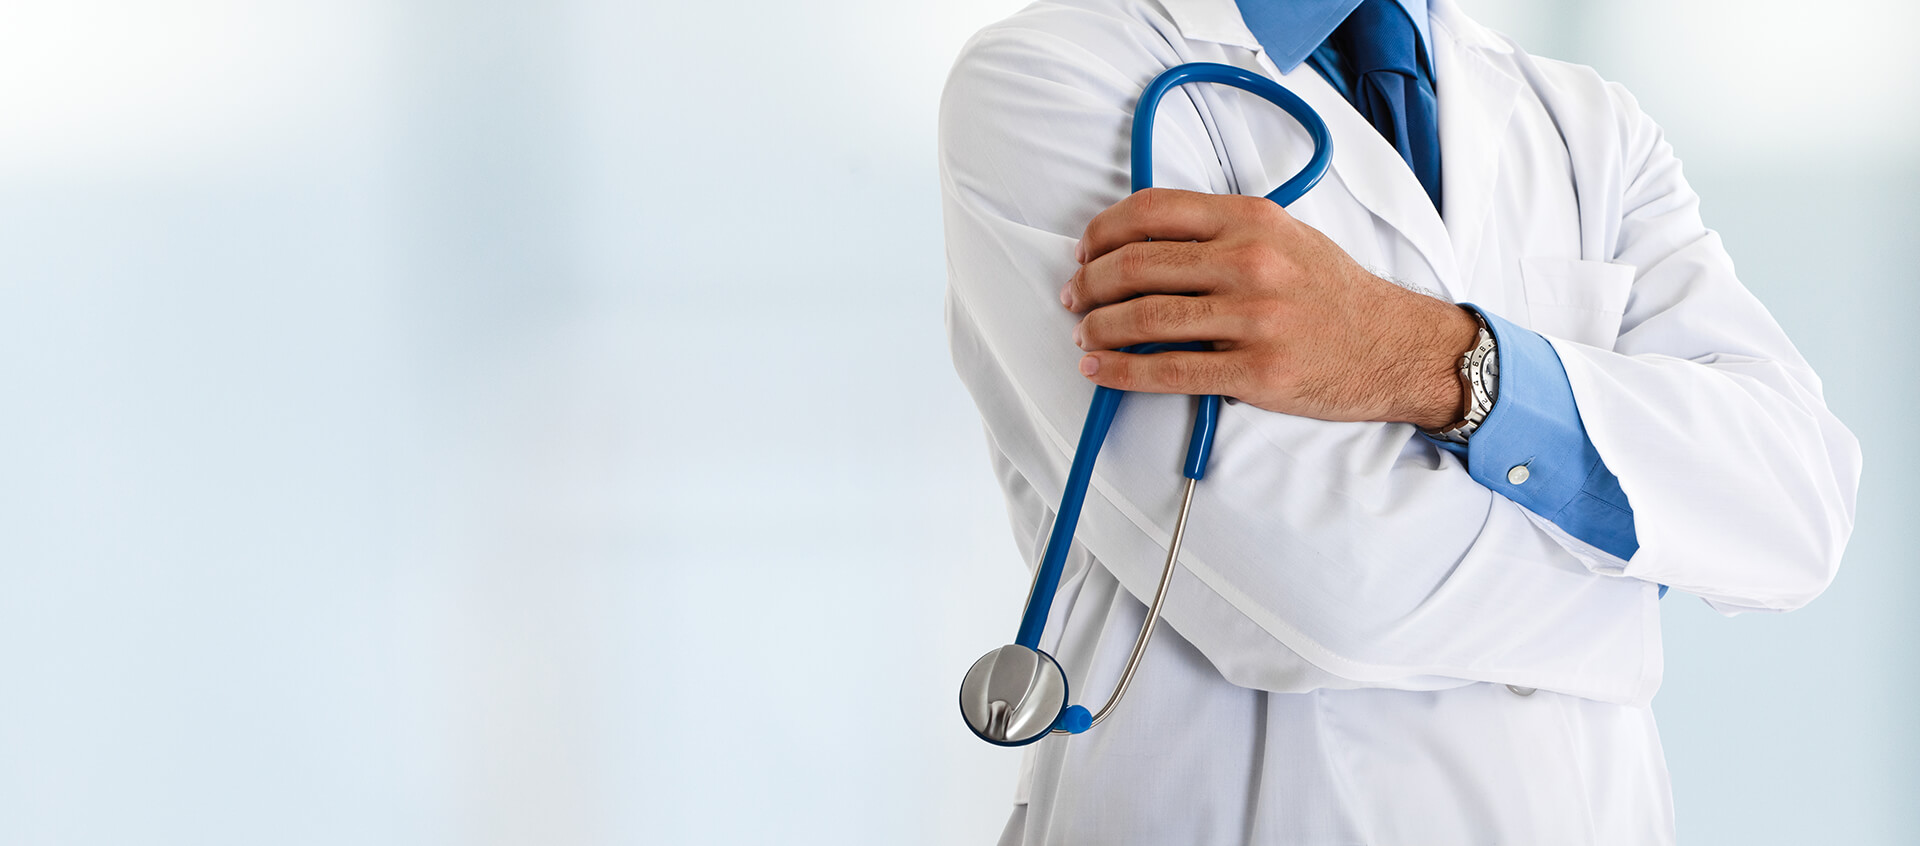
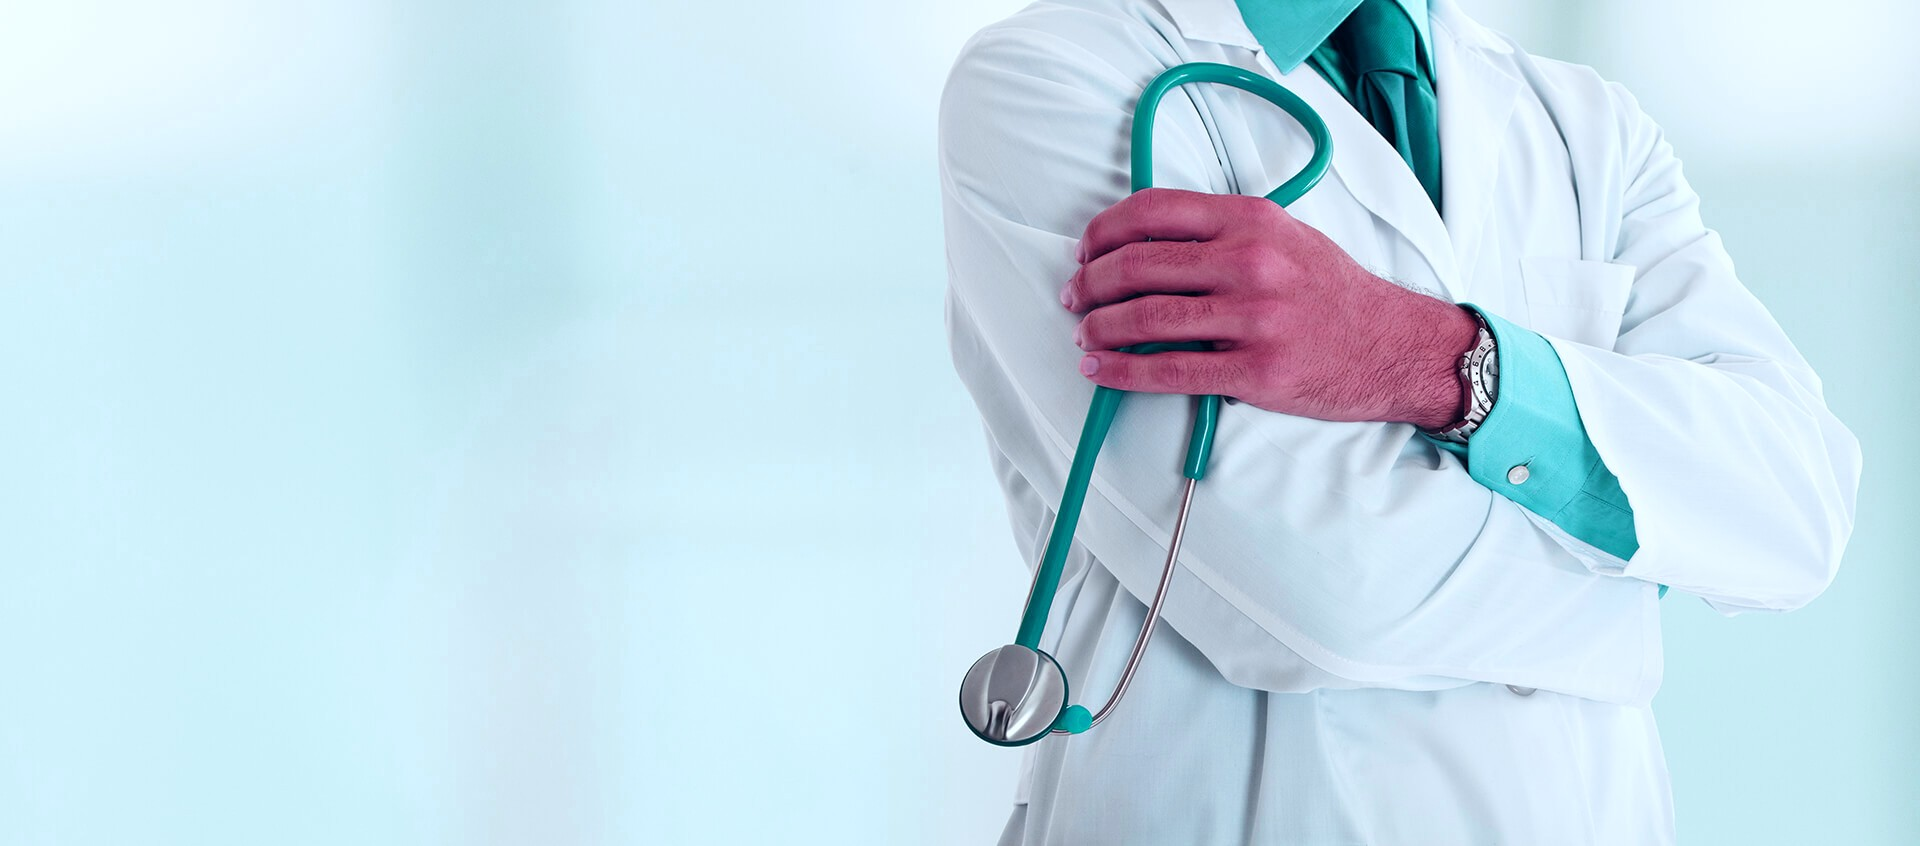
fixed the navbar and also the hero section

Changed region(s): [[0.5312, 0.0, 0.875, 0.7683], [0.5312, 0.8298, 0.5938, 0.8913]]

diff --git a/client/src/components/Navbar/Navbar.jsx b/client/src/components/Navbar/Navbar.jsx
@@ -96,13 +96,6 @@ const NavigationBar = () => {
               About
             </Link>
             <Link 
-              to="/services" 
-              className={`nav-link nav-link-animated ${location.pathname === '/services' ? 'active' : ''}`}
-              onClick={handleLinkClick}
-            >
-              Services
-            </Link>
-            <Link 
               to="/hospitals" 
               className={`nav-link nav-link-animated ${location.pathname === '/hospitals' ? 'active' : ''}`}
               onClick={handleLinkClick}
